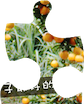
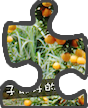
base drop

diff --git a/Resource.js b/Resource.js
@@ -40,6 +40,7 @@ function startLoading(){
         {src:"puzzle1/puzzle_1_13.png", id:"puzzle_1_13"},
         {src:"puzzle1/puzzle_1_14.png", id:"puzzle_1_14"},
         {src:"puzzle1/puzzle_1_15.png", id:"puzzle_1_15"},
+        {src:"puzzle1/puzzle_1_16.png", id:"puzzle_1_16"},
         {src:"puzzle1/puzzle_1_1_black.png", id:"puzzle_1_1_black"},
         {src:"puzzle1/puzzle_1_2_black.png", id:"puzzle_1_2_black"},
         {src:"puzzle1/puzzle_1_3_black.png", id:"puzzle_1_3_black"},
@@ -149,7 +150,8 @@ function handleComplete(event) {
                     rubberband(captureButton); 
 
                     // 檢查目前角度 是否符合目前的拼圖ID
-                    dropCurrentPuzzle(++currentPuzzleId);
+                    // dropCurrentPuzzle(++currentPuzzleId);
+
 
                     // if((topPuzzleContainer.rotation < 10) && ())      
                 }); 
@@ -159,11 +161,13 @@ function handleComplete(event) {
                     console.log("bet pressdown");
                     // rubberband(captureButton); 
 
-                    dropCurrentPuzzle(++currentPuzzleId);
+                    // dropCurrentPuzzle(++currentPuzzleId);
+
+                    flipPuzzle(15);
+  
+                    
                 });             
-
-          
-
+        
                 break;
             case "puzzle_line_4x4":
                 puzzleLine4x4Bitmap = new createjs.Bitmap(result);
@@ -316,58 +320,77 @@ function handleComplete(event) {
             break;
             case "puzzle_1_14":
                 addCurrentPuzzle(id, result, 0, 14, currentPuzzleContainer);
+                addTopNormalPuzzle(id, result, 292.5, 14, bottomPuzzleContainer);                  
             break;
             case "puzzle_1_15":
                 addCurrentPuzzle(id, result, 0, 15, currentPuzzleContainer);
-            break;                        
+                addTopNormalPuzzle(id, result, 315, 15, topPuzzleContainer);  
+            break;  
+            case "puzzle_1_16":
+                addCurrentPuzzle(id, result, 0, 16, currentPuzzleContainer);
+                addTopNormalPuzzle(id, result, 337.5, 16, bottomPuzzleContainer); 
+            break;                      
             case "puzzle_1_1_black":
                // 建立目前的拼圖
-                addBlackPuzzle(id, result, 0, 1, topPuzzleContainer);
+                addTopBlackPuzzle(id, result, 0, 1, topPuzzleContainer);
+                addTopNormalPuzzle(id, result, 0, 1, topPuzzleContainer);
             break;              
             case "puzzle_1_2_black":
-                addBlackPuzzle(id, result, 22.5, 2, bottomPuzzleContainer);
+                addTopBlackPuzzle(id, result, 22.5, 2, bottomPuzzleContainer);
+                addTopNormalPuzzle(id, result, 22.5, 2, bottomPuzzleContainer);
             break;          
             case "puzzle_1_3_black":
-                addBlackPuzzle(id, result, 45, 3, topPuzzleContainer);
+                addTopBlackPuzzle(id, result, 45, 3, topPuzzleContainer);
+                addTopNormalPuzzle(id, result, 45, 3, topPuzzleContainer);
             break;  
             case "puzzle_1_4_black":
-                addBlackPuzzle(id, result, 67.5, 4, bottomPuzzleContainer);  
+                addTopBlackPuzzle(id, result, 67.5, 4, bottomPuzzleContainer); 
+                addTopNormalPuzzle(id, result, 67.5, 4, bottomPuzzleContainer); 
             break;        
             case "puzzle_1_5_black":
-                addBlackPuzzle(id, result, 90, 5, topPuzzleContainer);  
+                addTopBlackPuzzle(id, result, 90, 5, topPuzzleContainer);  
+                addTopNormalPuzzle(id, result, 90, 5, topPuzzleContainer);  
             break;   
             case "puzzle_1_6_black":
-                addBlackPuzzle(id, result, 112.5, 6, bottomPuzzleContainer);  
+                addTopBlackPuzzle(id, result, 112.5, 6, bottomPuzzleContainer);  
+                addTopNormalPuzzle(id, result, 112.5, 6, bottomPuzzleContainer);
             break;  
             case "puzzle_1_7_black":
-                addBlackPuzzle(id, result, 135, 7, topPuzzleContainer);  
+                addTopBlackPuzzle(id, result, 135, 7, topPuzzleContainer);  
+                addTopNormalPuzzle(id, result, 135, 7, topPuzzleContainer);  
             break;  
             case "puzzle_1_8_black":
-                addBlackPuzzle(id, result, 157.5, 8, bottomPuzzleContainer);  
+                addTopBlackPuzzle(id, result, 157.5, 8, bottomPuzzleContainer);
+                addTopNormalPuzzle(id, result, 157.5, 8, bottomPuzzleContainer);  
             break;  
             case "puzzle_1_9_black":
-                addBlackPuzzle(id, result, 180, 9, topPuzzleContainer);  
+                addTopBlackPuzzle(id, result, 180, 9, topPuzzleContainer);  
+                addTopNormalPuzzle(id, result, 180, 9, topPuzzleContainer);  
             break;  
             case "puzzle_1_10_black":
-                addBlackPuzzle(id, result, 202.5, 10, bottomPuzzleContainer);  
+                addTopBlackPuzzle(id, result, 202.5, 10, bottomPuzzleContainer); 
+                addTopNormalPuzzle(id, result, 202.5, 10, bottomPuzzleContainer);  
             break;  
             case "puzzle_1_11_black":
-                addBlackPuzzle(id, result, 225, 11, topPuzzleContainer);  
+                addTopBlackPuzzle(id, result, 225, 11, topPuzzleContainer);  
+                addTopNormalPuzzle(id, result, 225, 11, topPuzzleContainer);  
             break;  
             case "puzzle_1_12_black":
-                addBlackPuzzle(id, result, 247.5, 12, bottomPuzzleContainer);  
+                addTopBlackPuzzle(id, result, 247.5, 12, bottomPuzzleContainer); 
+                addTopNormalPuzzle(id, result, 247.5, 12, bottomPuzzleContainer);  
             break;  
             case "puzzle_1_13_black":
-                addBlackPuzzle(id, result, 270, 13, topPuzzleContainer);  
+                addTopBlackPuzzle(id, result, 270, 13, topPuzzleContainer);  
+                addTopNormalPuzzle(id, result, 270, 13, topPuzzleContainer);  
             break;  
             case "puzzle_1_14_black":
-                addBlackPuzzle(id, result, 292.5, 14, bottomPuzzleContainer);  
+                addTopBlackPuzzle(id, result, 292.5, 14, bottomPuzzleContainer);  
             break;  
             case "puzzle_1_15_black":
-                addBlackPuzzle(id, result, 315, 15, topPuzzleContainer);  
+                addTopBlackPuzzle(id, result, 315, 15, topPuzzleContainer);  
             break;        
             case "puzzle_1_16_black":
-                addBlackPuzzle(id, result, 337.5, 16, bottomPuzzleContainer);  
+                addTopBlackPuzzle(id, result, 337.5, 16, bottomPuzzleContainer);  
             break;                                                                                                                                
             case "btn_spin":
                 var btnSpinBitmap = new createjs.Bitmap(result);
@@ -538,6 +561,16 @@ function handleComplete(event) {
         resize();
     }
 
+    function flipPuzzle(puzzleId)
+    {
+        var normalPuzzle = getTopNormalPuzzle(puzzleId);
+        normalPuzzle.visible = true;
+        var blackPuzzle = getTopBlackPuzzle(puzzleId);
+        blackPuzzle.visible = false;
+
+        popup(normalPuzzle);
+    }
+
     function addCurrentPuzzle (name, result, rotation, puzzleId, container) 
     {
         var puzzle = new geogame.Puzzle(name, result, 1, puzzleId);
@@ -551,18 +584,67 @@ function handleComplete(event) {
         puzzleArray.push(puzzle); 
 
         console.log("puzzle = "+ puzzle.mType);
-
     }
 
-    function addBlackPuzzle (name, result, rotation, puzzleId, container) 
+    function addTopBlackPuzzle (name, result, rotation, puzzleId, container) 
     {
         var puzzle = new geogame.Puzzle(name, result, 0, puzzleId);
         container.addChild(puzzle);
         puzzle.regX = 100/2;
         puzzle.regY = 460/2;
         puzzle.rotation = rotation;
-        puzzleArray.push(puzzle); 
+        topBlackPuzzleArray.push(puzzle); 
     }
+
+    function addTopNormalPuzzle (name, result, rotation, puzzleId, container) 
+    {
+        var puzzle = new geogame.Puzzle(name, result, 0, puzzleId);
+        container.addChild(puzzle);
+        puzzle.regX = 100/2;
+        puzzle.regY = 460/2;
+        puzzle.rotation = rotation;
+        topNormalPuzzleArray.push(puzzle); 
+        puzzle.visible = false;
+    }    
+
+    function getCurrentPuzzle(puzzleId)
+    {
+        var i = 0;
+        for(i = 0 ; i<puzzleArray.length; i++)
+        {
+            if(puzzleArray[i].mPuzzleId == puzzleId)
+            {
+                return puzzleArray[i];
+            }      
+        }
+    }
+
+    function getTopBlackPuzzle(puzzleId)
+    {
+        var i = 0;
+        for(i = 0 ; i<topBlackPuzzleArray.length; i++)
+        {
+            if(topBlackPuzzleArray[i].mPuzzleId == puzzleId)
+            {
+                return topBlackPuzzleArray[i];
+            }   
+        }
+    }
+
+    function getTopNormalPuzzle(puzzleId)
+    {
+        console.log("找尋拼圖:"+puzzleId);
+        var i = 0;
+        for(i = 0 ; i<topNormalPuzzleArray.length; i++)
+        {
+            console.log("getTopNormalPuzzle 找尋目前拼圖:"+topNormalPuzzleArray[i].mPuzzleId);
+            if(topNormalPuzzleArray[i].mPuzzleId == puzzleId)
+            {
+                return topNormalPuzzleArray[i];
+            }            
+        }
+    }    
+
 
     function addUserName(name)
     {

diff --git a/OrangeJS.html b/OrangeJS.html
@@ -115,6 +115,9 @@
         // 拼圖資源
         var puzzleArray;
 
+        var topNormalPuzzleArray;
+        var topBlackPuzzleArray;
+
 
         // 問題容器
         var questonContainer;
@@ -253,6 +256,9 @@
             // 拼圖物件
             puzzleArray = [];
 
+            topBlackPuzzleArray = [];
+            topNormalPuzzleArray = [];
+
     		// Stage物件：Display List 最底層的物件
     		var canvas = document.getElementById("GameCanvas");
 
@@ -322,6 +328,7 @@
 
             rollContainer(mapContainer, 0.15);
             rollContainer(bottomPuzzleContainer, -0.1);
+            // rollContainer();
         }   
 
         function rollContainer(container, speed)
